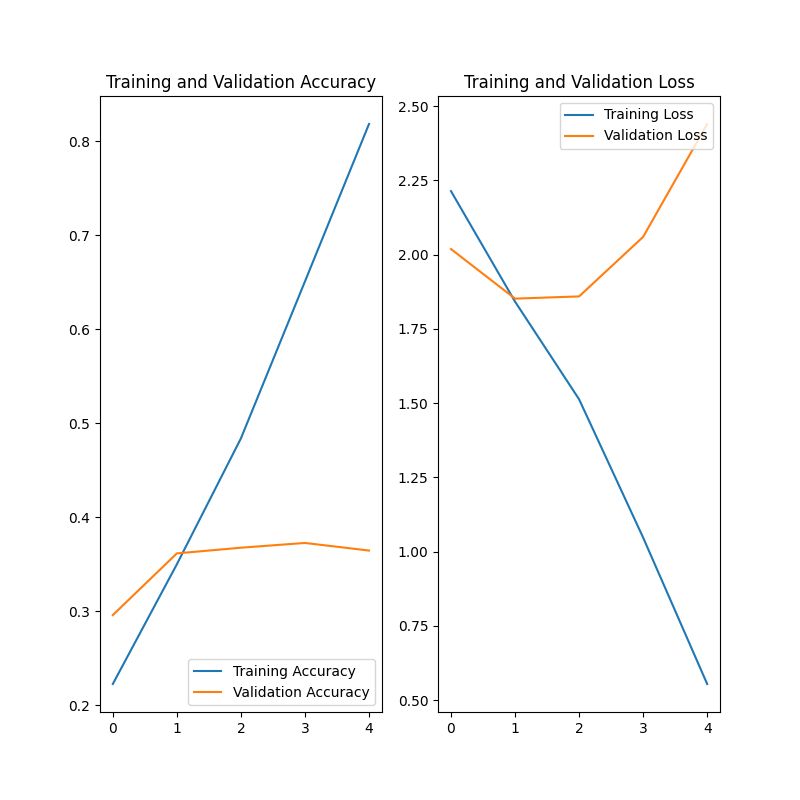
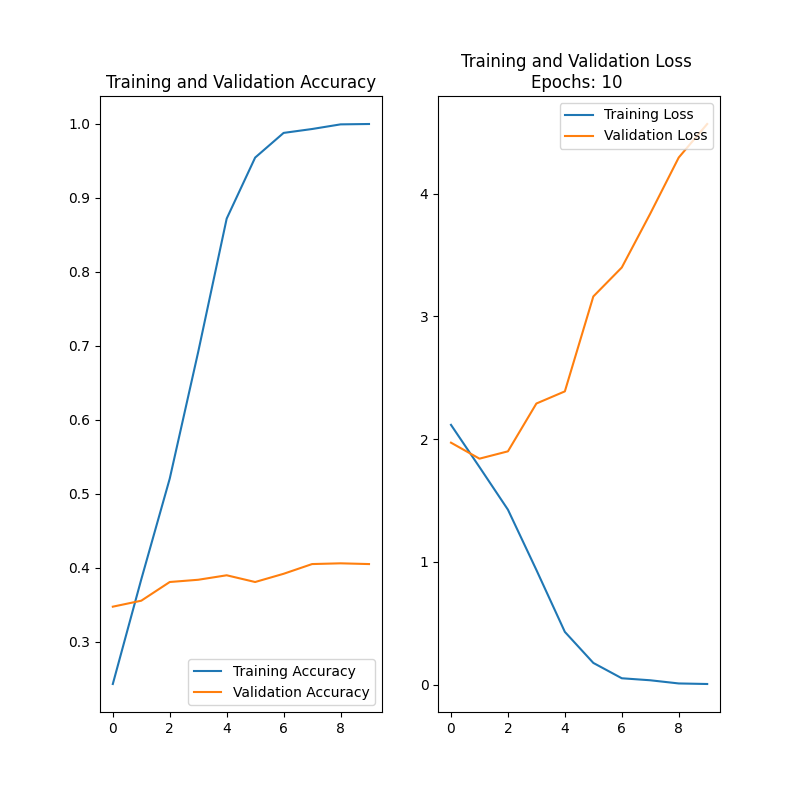
fixed classification report

diff --git a/src/cnn-artists.py b/src/cnn-artists.py
@@ -2,6 +2,7 @@ import argparse
 import matplotlib.pyplot as plt
 import numpy as np
 import tensorflow as tf
+import os
 
 from tensorflow.keras import layers
 from tensorflow.keras.models import Sequential
@@ -25,9 +26,13 @@ def main(args):
 
     batch_size = args.bs
 
+    epochs = args.e
+
     img_height = args.img_h
 
     img_width = args.img_w
+
+    os.environ["CUDA_VISIBLE_DEVICES"] = args.gpu  # Setting visible GPU devices
 
     cnn = CNNClassification()
 
@@ -41,7 +46,7 @@ def main(args):
     cnn.create_model(img_height=img_height,
                      img_width=img_width)
 
-    cnn.train()
+    cnn.train(epochs=epochs)
 
     cnn.plot_training()
 
@@ -94,10 +99,6 @@ class CNNClassification:
 
         # Preprocessing data for evaluation and classification report
 
-        self.val_images = np.concatenate([images for images, labels in self.val_ds], axis=0)
-
-        self.val_labels = np.concatenate([labels for images, labels in self.val_ds], axis=0)
-
         self.train_class_names = self.train_ds.class_names
 
         self.val_class_names = self.val_ds.class_names
@@ -114,6 +115,7 @@ class CNNClassification:
 
     def create_model(self, img_height, img_width, print_model=True):
 
+        # Creating model
         self.model = Sequential([layers.experimental.preprocessing.Rescaling(1. / 255, input_shape=(img_height, img_width, 3)),
                                  layers.Conv2D(16, 3, padding='same', activation='relu'),
                                  layers.MaxPooling2D(),
@@ -126,6 +128,7 @@ class CNNClassification:
                                  layers.Dense(self.num_classes)
                                  ])
 
+        # Compiling model
         self.model.compile(optimizer='adam',
                            loss=tf.keras.losses.SparseCategoricalCrossentropy(from_logits=True),
                            metrics=['accuracy'])
@@ -138,6 +141,7 @@ class CNNClassification:
 
         self.epochs = epochs
 
+        # Train model
         self.history = self.model.fit(self.train_ds,
                                       validation_data=self.val_ds,
                                       epochs=self.epochs
@@ -145,6 +149,7 @@ class CNNClassification:
 
     def plot_training(self, history=None):
 
+        # Extracting accuracy and loss metrics
         acc = self.history.history['accuracy']
         val_acc = self.history.history['val_accuracy']
 
@@ -153,6 +158,7 @@ class CNNClassification:
 
         epochs_range = range(self.epochs)
 
+        # Plotting using matplotlib
         plt.figure(figsize=(8, 8))
         plt.subplot(1, 2, 1)
         plt.plot(epochs_range, acc, label='Training Accuracy')
@@ -164,24 +170,28 @@ class CNNClassification:
         plt.plot(epochs_range, loss, label='Training Loss')
         plt.plot(epochs_range, val_loss, label='Validation Loss')
         plt.legend(loc='upper right')
-        plt.title('Training and Validation Loss')
+        plt.title(f'Training and Validation Loss \nEpochs: {self.epochs} ')
 
         out_file = self.out_dir / "train_val_history.png"
         plt.savefig(out_file)
 
     def evaluate_model(self, batch_size=32):
 
-        predictions = self.model.predict(self.val_images, batch_size=batch_size)
+        predictions = self.model.predict(self.val_ds, batch_size=batch_size)  # predictions
 
-        eval_report = classification_report(self.val_labels,
-                                            predictions.argmax(axis=1),
-                                            target_names=self.val_class_names)
+        predictions = tf.argmax(predictions, axis=1)  # Getting the highest values
+
+        labels = tf.concat([y for x, y in self.val_ds], axis=0)  # Extracting labels
+
+        eval_report = classification_report(labels,
+                                            predictions,
+                                            target_names=self.val_class_names)  # Creating classification report
 
         print(eval_report)
 
         out_file = self.out_dir / "classification_report.txt"
 
-        out_file.write_text(eval_report)
+        out_file.write_text(eval_report)  # Writing report
 
 
 if __name__ == "__main__":
@@ -234,5 +244,12 @@ if __name__ == "__main__":
                         help='Pixel width for image rescaling.',
                         required=False,
                         default=256)
+
+    parser.add_argument('--gpu',
+                        metavar="GPU device",
+                        type=str,
+                        help='Which GPU device to use. Defaults to -1 to not allow GPU usage.',
+                        required=False,
+                        default="-1")
 
     main(parser.parse_args())
